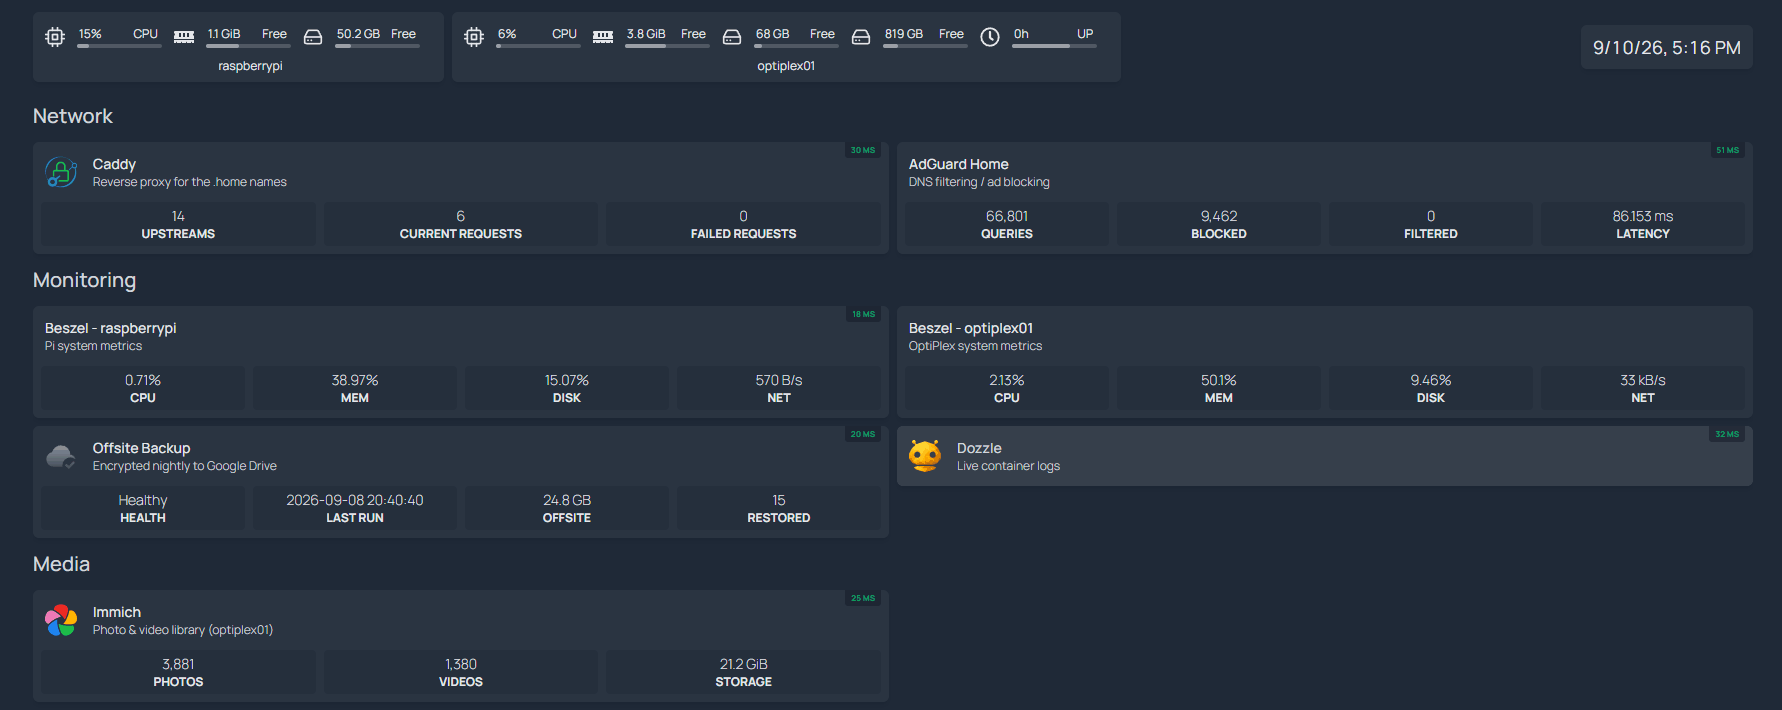
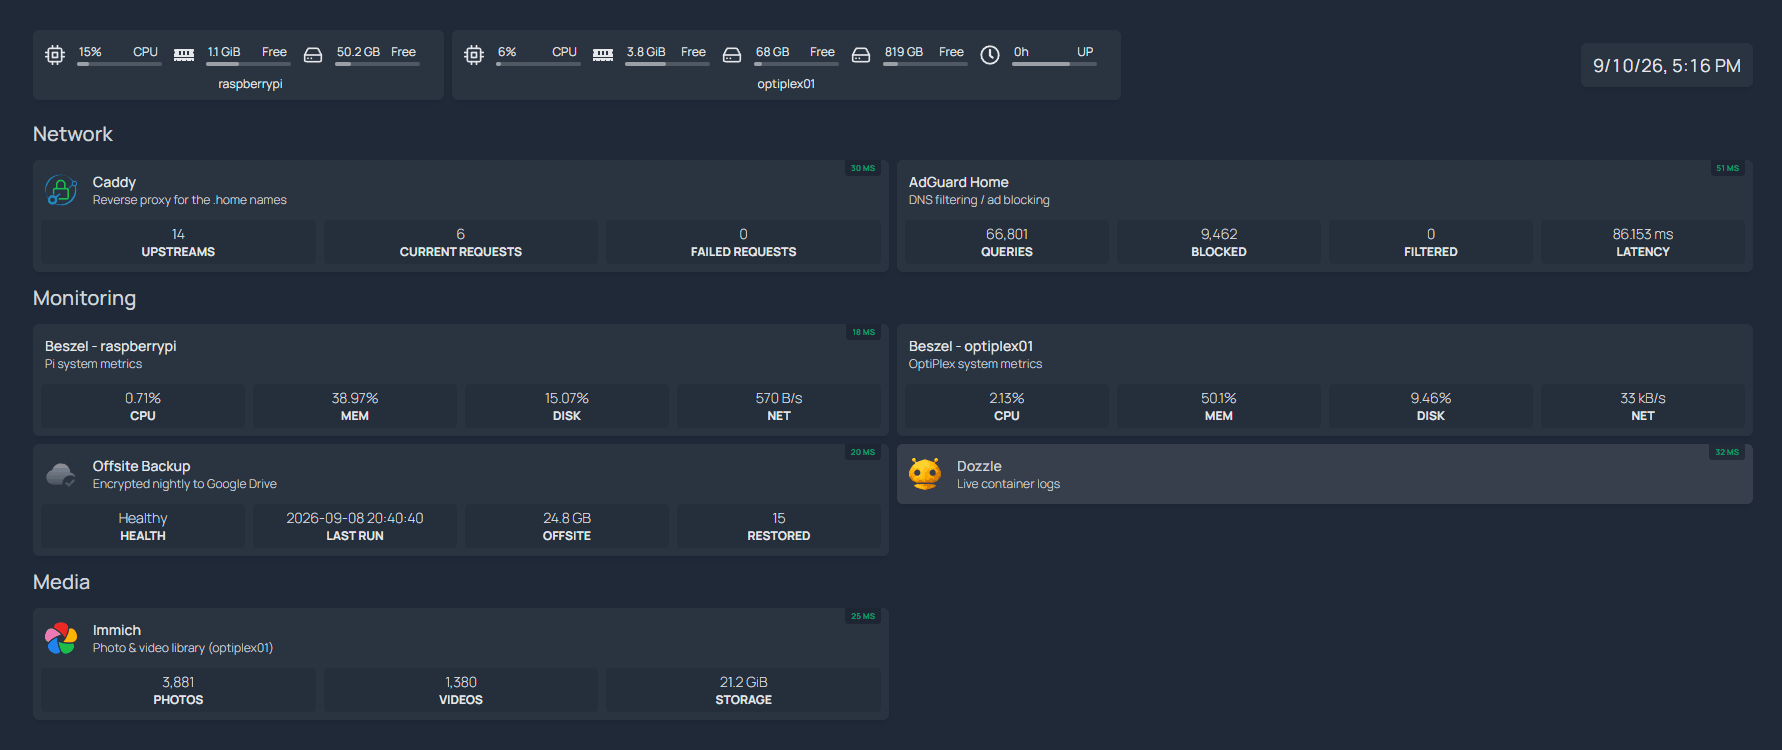
fix: stop cropping card previews, rebalance dashboard framing
Two separate causes behind images looking cut.

The real crop was on the homepage. .project-card__preview img pairs a
16:9 box with object-fit: cover, so any screenshot that is not 16:9
loses its edges. Measured against the actual files, the HomeLab
dashboard lost 29% of its width and the RetailOS shot 14% — real
content, sliced off both sides. These are dashboards and UI captures
where the edges carry the point, so it is now object-fit: contain. The
box stays 16:9 so the card grid remains uniform, and the image is
letterboxed inside it against the card's own surface colour.

The case-study figure was not cropped by CSS, but the crop baked into
dashboard.png framed it badly: 12px above the content and 8px below,
against 33px and 29px at the sides. At display scale that is about 2px
under the last card, so it sat flush against the frame border and read
as sliced. Padded to 30px top and bottom in the image's own background
colour. 1782x710 -> 1782x750, and the width and height attributes on
both the case study and the homepage card follow it.

All 54 dimension attributes across the site re-verified against actual
pixel sizes.

The log capture is left alone. Its lower edge lands on a row boundary
and the container sidebar continues past it, which is what a scrolling
log viewer should look like.

diff --git a/homelab.html b/homelab.html
@@ -221,7 +221,7 @@
                 </div>
 
                 <figure class="case-hero-media">
-                    <img src="/Images/HomeLab%20Images/dashboard.png" width="1782" height="710"
+                    <img src="/Images/HomeLab%20Images/dashboard.png" width="1782" height="750"
                         alt="Homelab dashboard showing host stats for both machines, Caddy and AdGuard Home, Beszel metrics for each host, offsite backup health, and the Immich photo library"
                         class="project-showcase__gallery-item" loading="eager" />
                     <figcaption>The dashboard lives on the Pi rather than the main server, so I can still see what's

diff --git a/index.html b/index.html
@@ -773,7 +773,7 @@
             </div>
           </div>
           <a href="/homelab.html" class="project-card__preview" aria-label="Open HomeLab case study">
-            <img src="/Images/HomeLab%20Images/dashboard.png" width="1782" height="710"
+            <img src="/Images/HomeLab%20Images/dashboard.png" width="1782" height="750"
               alt="Homelab dashboard preview showing host stats, DNS and proxy metrics, and offsite backup health"
               loading="lazy">
           </a>

diff --git a/style.css b/style.css
@@ -941,7 +941,10 @@ code {
   display: block;
   width: 100%;
   aspect-ratio: 16 / 9;
-  object-fit: cover;
+  /* contain, not cover: these are UI screenshots and dashboards, and a
+     29% horizontal crop cut real content out of the widest of them. The
+     box keeps the card grid uniform; the image is letterboxed inside it. */
+  object-fit: contain;
 }
 
 .project-card__tags {
